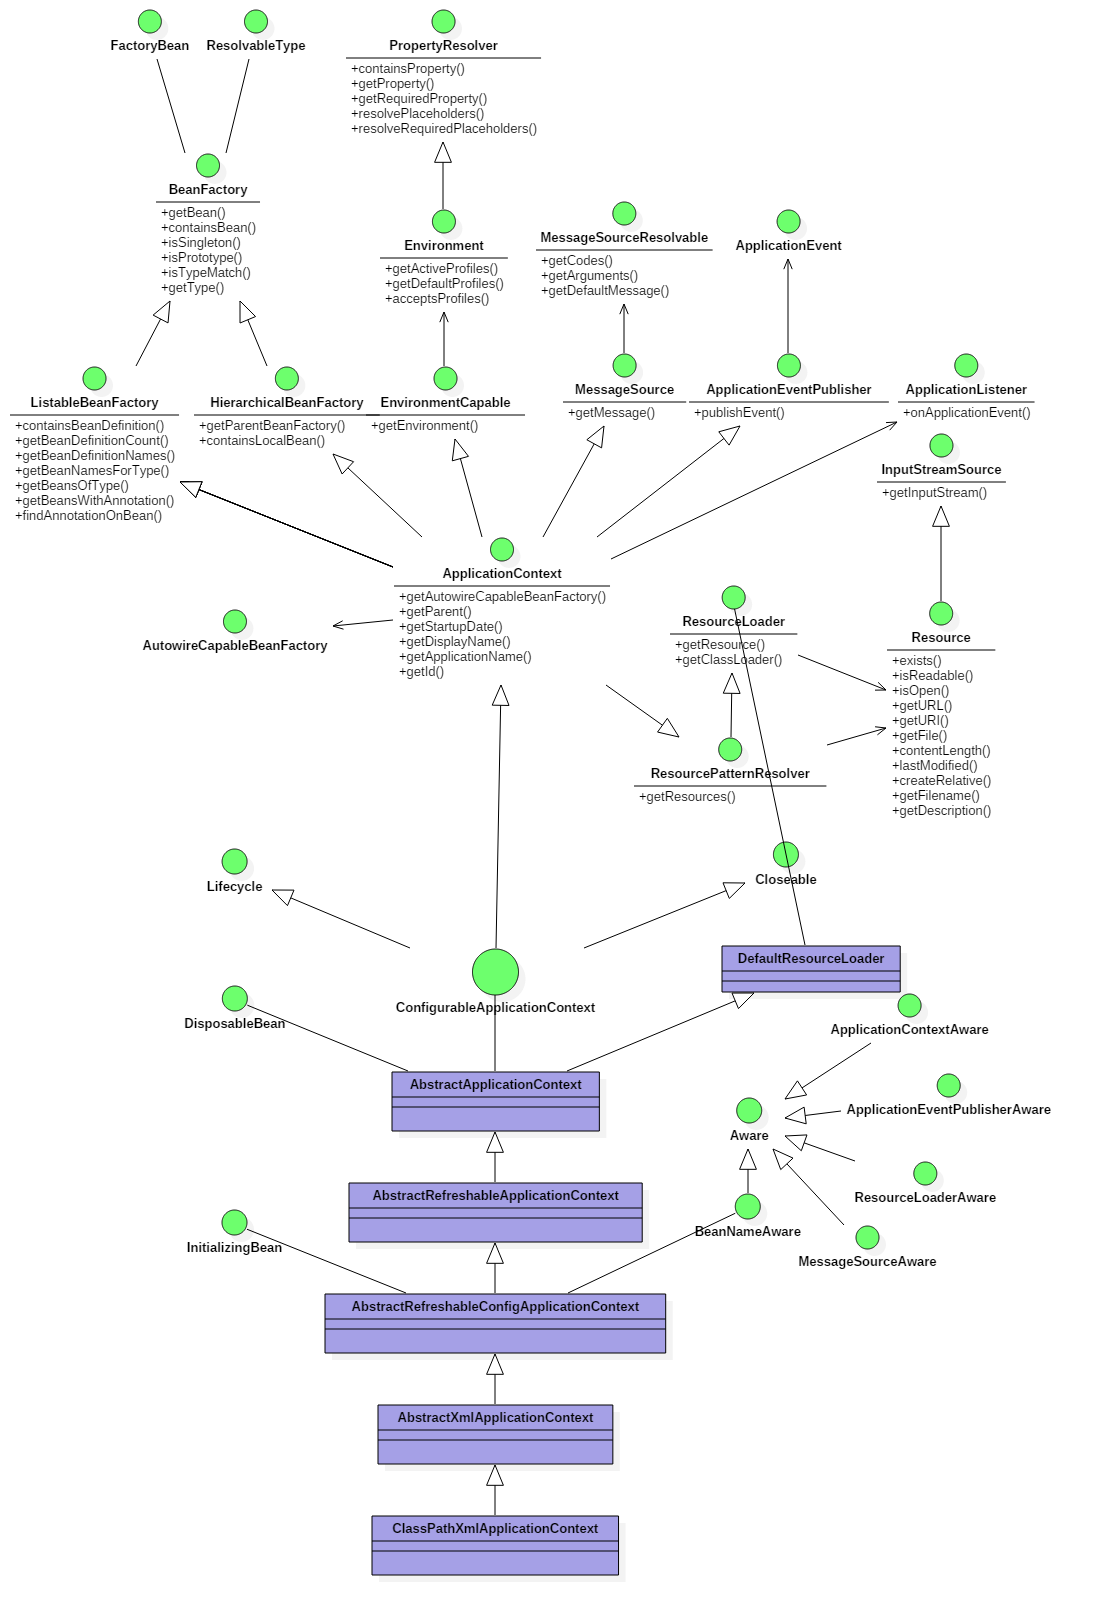
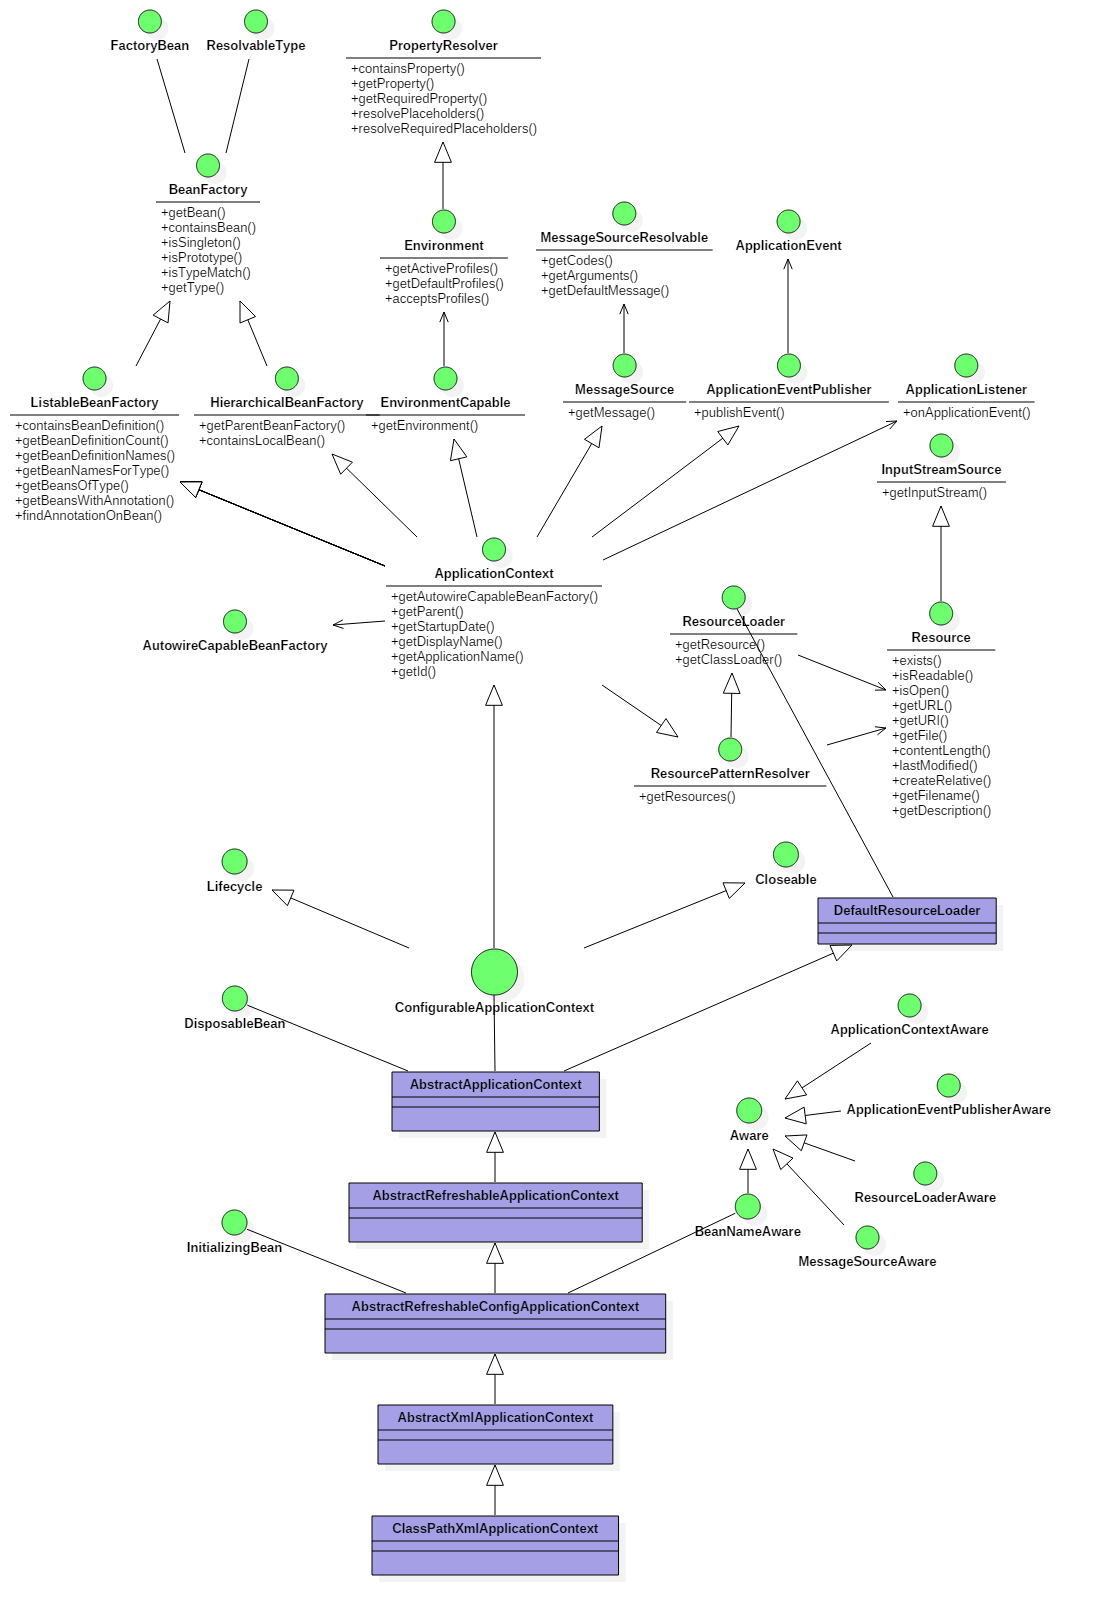
init AutowireCapableBeanFactory and perfect Application png

diff --git a/_drafts/2017-12-19-AutowireCapableBeanFactory接口定义.md b/_drafts/2017-12-19-AutowireCapableBeanFactory接口定义.md
@@ -12,11 +12,21 @@ tags:
     - spring-context
 ---
 
+[ApplicationContext接口定义][]
+[ApplicationContext接口定义]:  "ApplicationContext接口定义"
+
 # 引言
 
-[ApplicationContext接口定义][]
+上一篇文章我们看了[ApplicationContext接口定义][]接口及其父类接口的定义，先来回顾一下：   
+ApplicationContext接口主要提供了获取父上下文，自动装配bean工厂 *AutowireCapableBeanFactory*，应用上下文name，展示name，启动时间戳及应用id的操作。应用上下文继承了 *EnvironmentCapable, ListableBeanFactory, HierarchicalBeanFactory,MessageSource, ApplicationEventPublisher, ResourcePatternResolver* ，具有了访问bean容器中组件，配置环境，加载文件或类路径资源，发布应用事件到监听器，已经解决国际化消息的功能。另外需要注意的是，应用上下文具有，父上下文的继承性（HierarchicalBeanFactory）。定义在子孙上下文中的bean定义将会有限考虑。这意味着，一个单独的父上下文可以被整个web应用上下文所使用。这一点体现在，当我们使用spring的核心容器特性和spring mvc时，在web.xml中，我们有两个配置一个是上下文监听器（org.springframework.web.context.ContextLoaderListener），同时需要配置应用上下文bean的定义配置，一般是ApplicationContext.xml，另一个是Servlet分发器（org.springframework.web.servlet.DispatcherServlet），同时需要配置WebMVC相关配置，一般是springmvc.xml。应用一般运行的在Web容器中，Web容器可以访问应用上下文，同时Web容器的Servlet也可以访问应用上下文，然而每个servlet有自己的上下文，独立于其他servlet。
 
-[ApplicationContext接口定义]:  "ApplicationContext接口定义"
+![ApplicationContext](/image/spring-context/ApplicationContext.png)
+
+今天我么来看一下*AutowireCapableBeanFactory* 接口的定义
+
+# 目录
+
+
 
 [AutowireCapableBeanFactory][]
 [AutowireCapableBeanFactory]:
